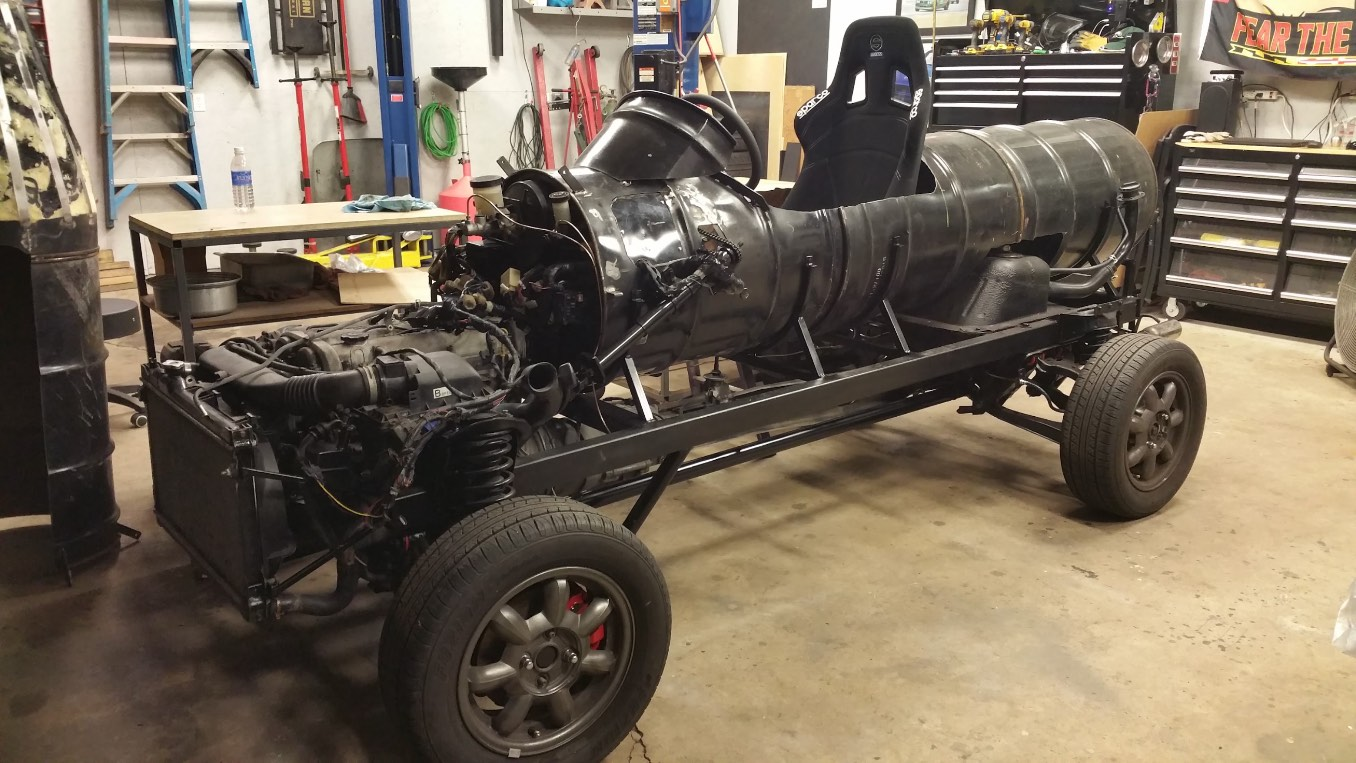
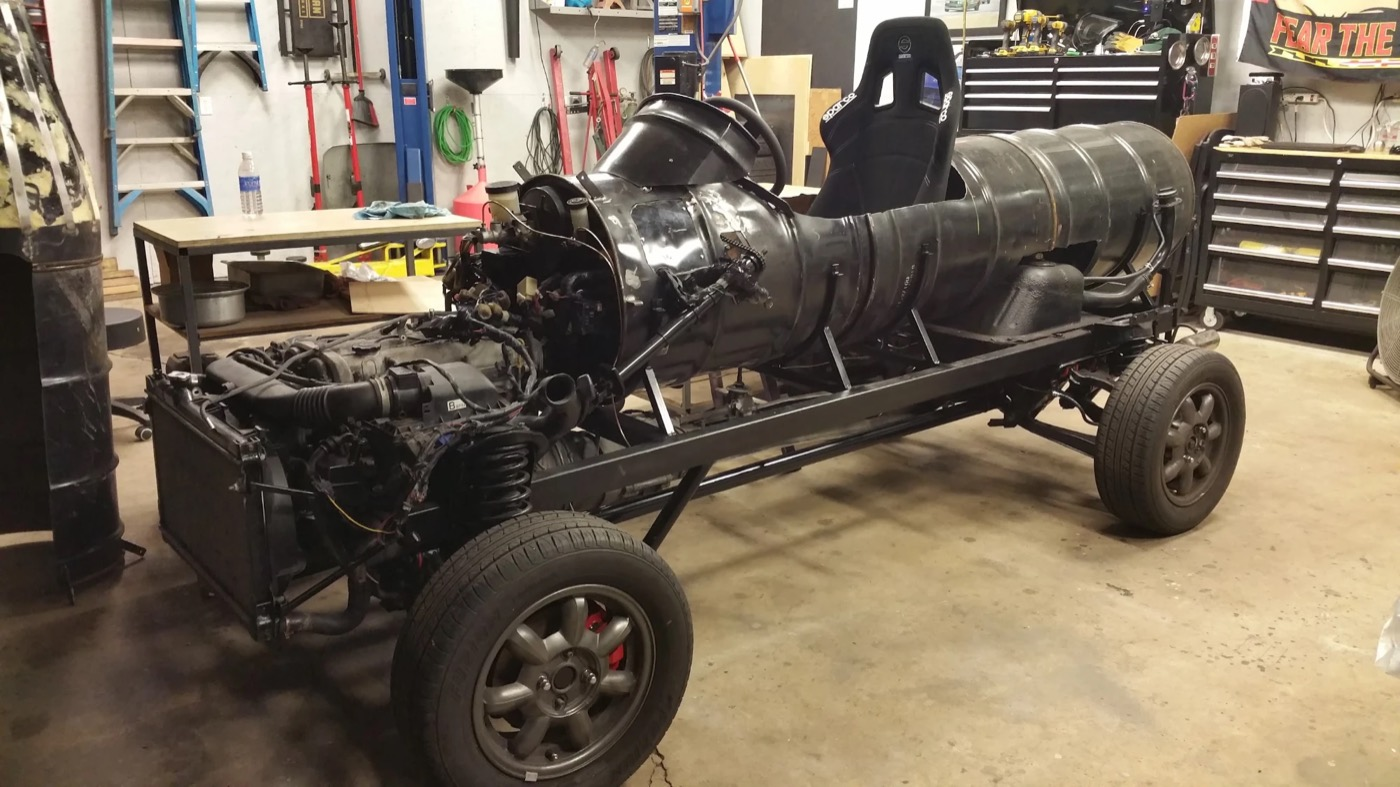
Explain the Rocket Car's centre steering, with sharper photos

diff --git a/builds/rocket-car/index.html b/builds/rocket-car/index.html
@@ -103,7 +103,9 @@
         <div class="ch-head"><span class="ch-no">CHAPTER 03 · JUN 2016</span><h2>Five oil drums</h2></div>
         <div class="prose">
           <p>The fuselage is five 55-gallon oil drums. Some stayed round and became the body around the seat and tail. Others were cut into strips and pulled in to make the tapers, over a skeleton of steel strap with a domed cap for the nose.</p>
-          <p>The cockpit is a drum cut open behind a sheet-metal bulkhead, with a Sparco seat dropped in. The steering column had to dodge the body, so it is linked down to the rack with roller chain. The Miata shifter comes straight up between your legs, a long way below the seat, so it needed an extension. What better to extend it than a nut driver? The handle is now the shift knob. By the end of June the whole fuselage was sitting on the chassis.</p>
+          <p>The cockpit is a drum cut open behind a sheet-metal bulkhead, with a Sparco seat dropped in, right on the centreline of the car.</p>
+          <p>Which raises a question: how do you steer a car when you are sitting in the middle of it? The Miata steering column and rack still sit where Mazda put them, on the left. So the steering wheel turns a sprocket, roller chain carries that to a jackshaft running across the car on two pillow-block bearings, and a second chain takes it out to the original column on the side of the fuselage.</p>
+          <p>The Miata shifter comes straight up between your legs, a long way below the seat, so it needed an extension. What better to extend it than a nut driver? The handle is now the shift knob. By the end of June the whole fuselage was sitting on the chassis.</p>
         </div>
         <div class="shots">
           <figure class="w"><button type="button" data-img="img/body-on.jpg" data-cap="The drum fuselage and Sparco seat on the chassis" aria-label="Enlarge: The drum fuselage and Sparco seat on the chassis"><img src="img/body-on.jpg" alt="The drum fuselage and Sparco seat on the chassis" loading="lazy"></button><figcaption>The drum fuselage and Sparco seat on the chassis</figcaption></figure>
@@ -112,7 +114,8 @@
           <figure><button type="button" data-img="img/nose-front.jpg" data-cap="Nose cone from the front" aria-label="Enlarge: Nose cone from the front"><img src="img/nose-front.jpg" alt="Nose cone from the front" loading="lazy"></button><figcaption>Nose cone from the front</figcaption></figure>
           <figure><button type="button" data-img="img/drum-cone.jpg" data-cap="A drum cut into strips and pulled into a cone" aria-label="Enlarge: A drum cut into strips and pulled into a cone"><img src="img/drum-cone.jpg" alt="A drum cut into strips and pulled into a cone" loading="lazy"></button><figcaption>A drum cut into strips and pulled into a cone</figcaption></figure>
           <figure><button type="button" data-img="img/cowl.jpg" data-cap="Cockpit bulkhead and cowl taking shape" aria-label="Enlarge: Cockpit bulkhead and cowl taking shape"><img src="img/cowl.jpg" alt="Cockpit bulkhead and cowl taking shape" loading="lazy"></button><figcaption>Cockpit bulkhead and cowl taking shape</figcaption></figure>
-          <figure><button type="button" data-img="img/steering-chain.jpg" data-cap="Steering column linked by roller chain" aria-label="Enlarge: Steering column linked by roller chain"><img src="img/steering-chain.jpg" alt="Steering column linked by roller chain" loading="lazy"></button><figcaption>Steering column linked by roller chain</figcaption></figure>
+          <figure><button type="button" data-img="img/steering-chain.jpg" data-cap="Centre steering: chain from the wheel to the jackshaft, and out to the Miata column" aria-label="Enlarge: Centre steering: chain from the wheel to the jackshaft, and out to the Miata column"><img src="img/steering-chain.jpg" alt="Centre steering: chain from the wheel to the jackshaft, and out to the Miata column" loading="lazy"></button><figcaption>Centre steering: chain from the wheel to the jackshaft, and out to the Miata column</figcaption></figure>
+          <figure><button type="button" data-img="img/steering-jackshaft.jpg" data-cap="The steering jackshaft: a shaft, two pillow-block bearings and a sprocket" aria-label="Enlarge: The steering jackshaft: a shaft, two pillow-block bearings and a sprocket"><img src="img/steering-jackshaft.jpg" alt="The steering jackshaft: a shaft, two pillow-block bearings and a sprocket" loading="lazy"></button><figcaption>The steering jackshaft: a shaft, two pillow-block bearings and a sprocket</figcaption></figure>
           <figure><button type="button" data-img="img/shifter-parts.jpg" data-cap="The shifter extension: a nut driver over the Miata shift lever" aria-label="Enlarge: The shifter extension: a nut driver over the Miata shift lever"><img src="img/shifter-parts.jpg" alt="The shifter extension: a nut driver over the Miata shift lever" loading="lazy"></button><figcaption>The shifter extension: a nut driver over the Miata shift lever</figcaption></figure>
           <figure><button type="button" data-img="img/shifter-cockpit.jpg" data-cap="Nut-driver shift knob between the pedals and the seat" aria-label="Enlarge: Nut-driver shift knob between the pedals and the seat"><img src="img/shifter-cockpit.jpg" alt="Nut-driver shift knob between the pedals and the seat" loading="lazy"></button><figcaption>Nut-driver shift knob between the pedals and the seat</figcaption></figure>
         </div>
